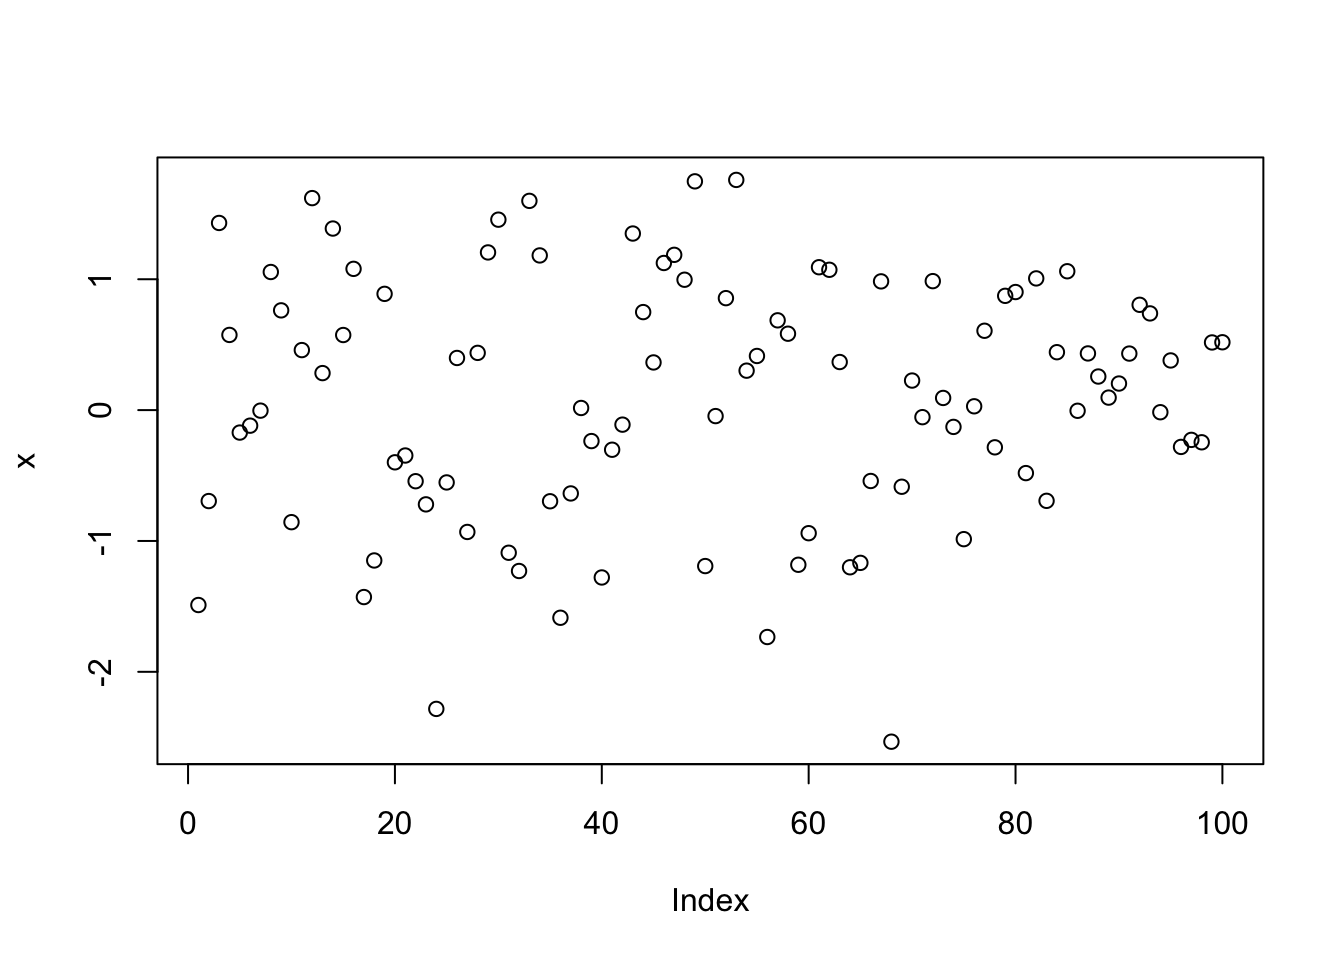
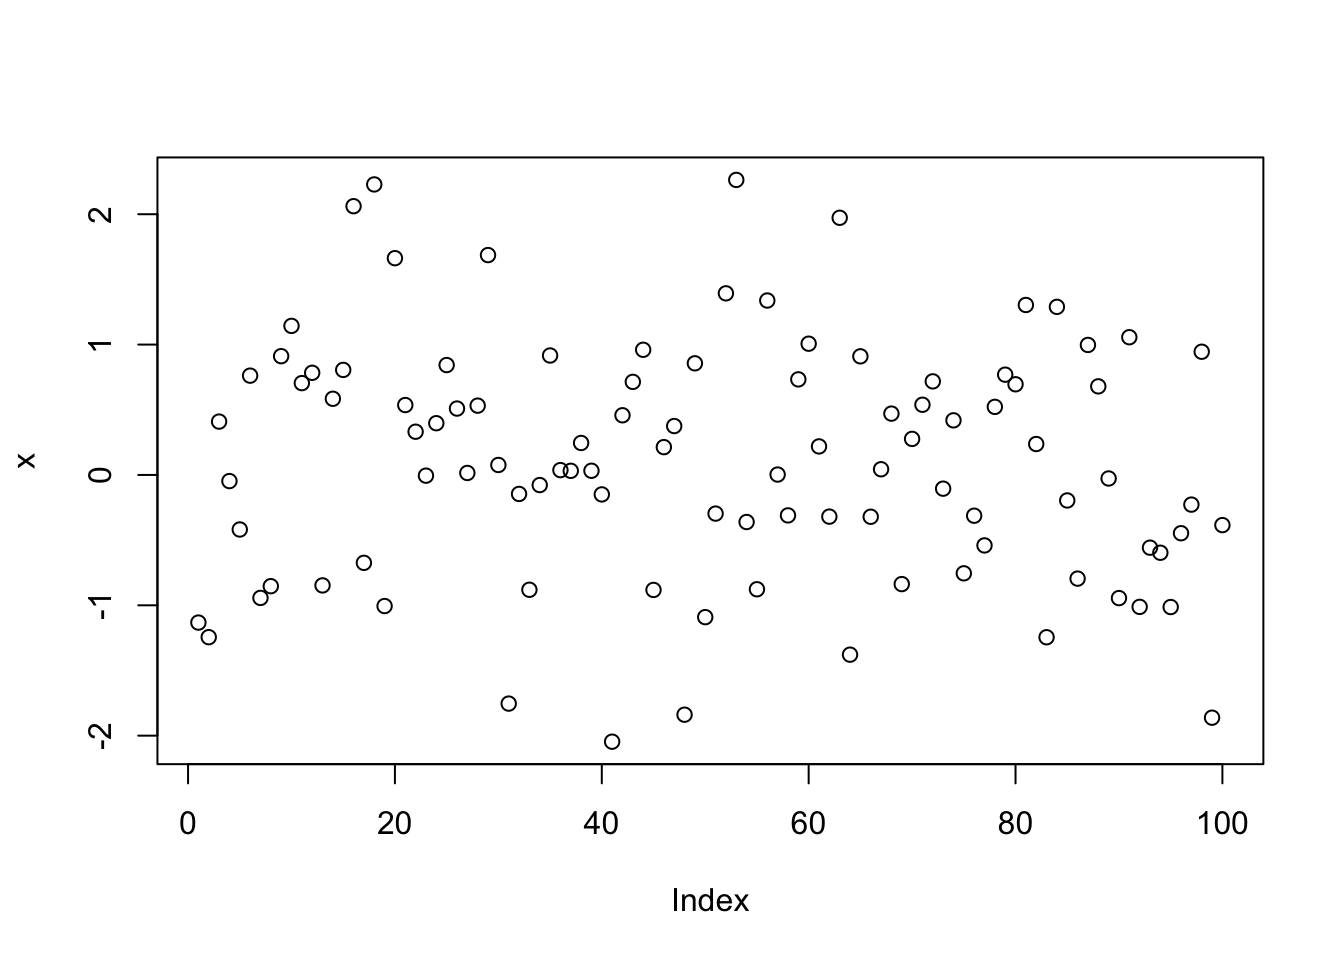
Alumni section added to members page

diff --git a/_site/members.html b/_site/members.html
@@ -796,6 +796,10 @@ Romina joined the lab in 2024 as a master’s student in Molecular Medicine, com
 </div>
 </div>
 </section>
+<section id="alumni" class="level2">
+<h2 class="anchored" data-anchor-id="alumni">Alumni</h2>
+<p><strong>Malo Gicquel</strong>, Master student (2023)<br> <strong>Alma Lennartsson</strong>, Master student (2025-2026)<br></p>
+</section>
 </div>
 
 